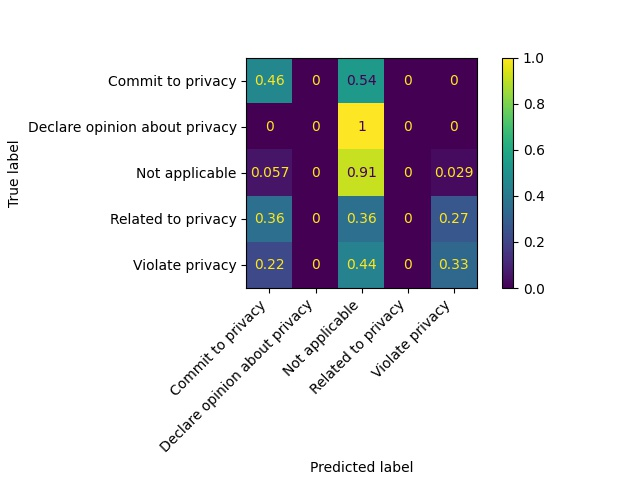
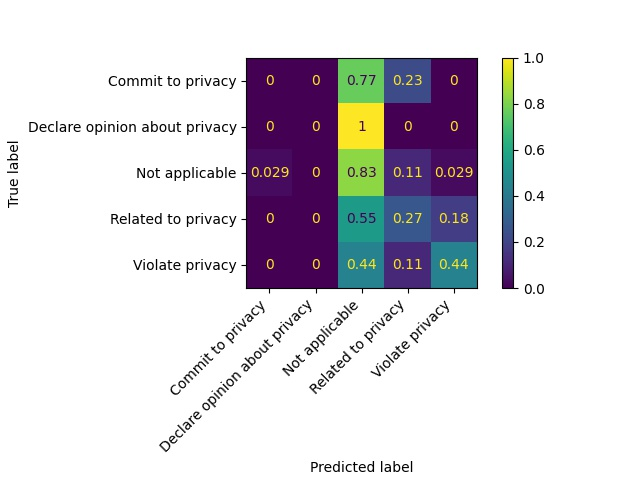
AI classifier configurations: initial + binary word representation + n_estimators 300 + learning rate: 0.9

diff --git a/AIclassifier.py b/AIclassifier.py
@@ -136,7 +136,7 @@ dev_labels_primary = create_labels_array(labels_dev)
 # CLASSIFIER
 
 # Configurations
-adaclassifier = AdaBoostClassifier(n_estimators=50, learning_rate=0.5) # n_est 25, 50, 75, 100,200, 300 lr 0.5, 1
+adaclassifier = AdaBoostClassifier(n_estimators=300, learning_rate=0.9) # n_est 25, 50, 75, 100,200, 300 lr 0.5, 1
 
 # FLAG - CHECK WHICH CONFIGURATIONS SHOULD BE HERE - checked
 
